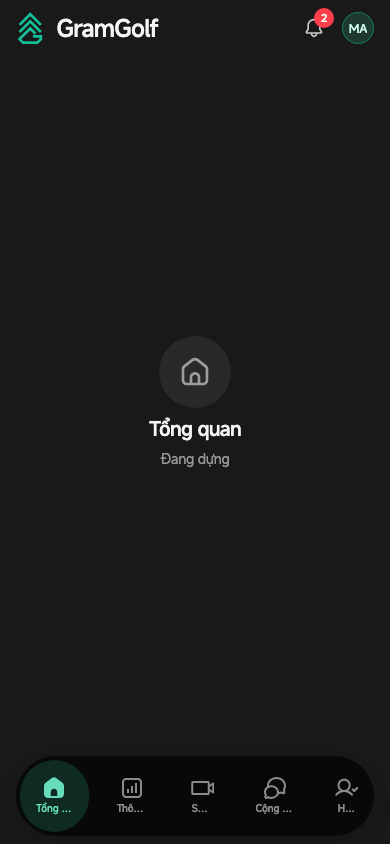
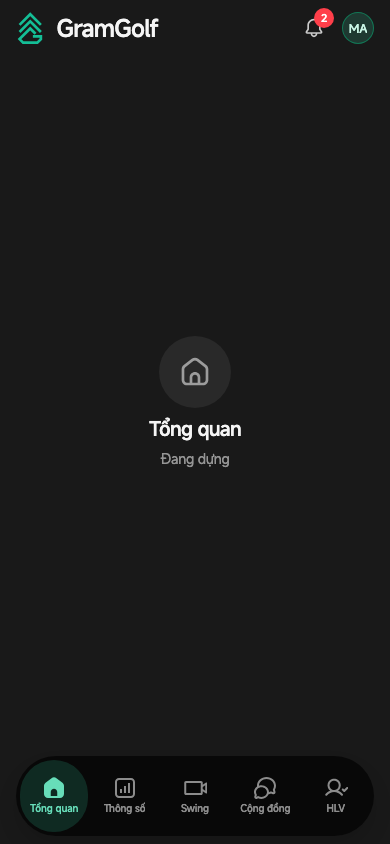
fix(ds): BottomNavigation 5 mục không cắt nhãn ở 390 (NỢ FIGMA F55)
Chọn hướng (a) của review Task 3: khi ≥5 mục, pill trải hết bề ngang,
mục flex 1 chia đều, gap + padding ngang trong thu về 3XSmall. ≤4 mục
giữ khoảng cách Figma. Ghi nợ F55, cheatsheet, chụp lại player-home.

diff --git a/packages/ds/src/ui/BottomNavigation/bottomNavigationStyles.ts b/packages/ds/src/ui/BottomNavigation/bottomNavigationStyles.ts
@@ -20,13 +20,18 @@ const THEME: Record<BottomNavTheme, { off: ItemPaint; on: ItemPaint }> = {
   Overlay: { off: { icon: 'Color/Content/Accent/Strongest', label: 'Color/Content/Accent/Strongest' }, on: { bg: 'Color/Background/Surface/Default', icon: 'Color/Content/Accent/Strongest', label: 'Color/Content/Accent/Strongest', shadow: true } },
 };
 
-export function bottomNavigationStyles(t: Theme, o: { type: BottomNavType }): { bar: ViewStyle; items: ViewStyle } {
+/**
+ * `dense` (≥5 mục) — NỢ FIGMA F55: Floating chỉ vừa 4 mục; 5 mục ở 390 cắt nhãn. Dense: pill trải hết bề ngang, mục chia đều,
+ * gap + padding ngang trong thu về 3XSmall.
+ */
+export function bottomNavigationStyles(t: Theme, o: { type: BottomNavType; dense?: boolean }): { bar: ViewStyle; items: ViewStyle } {
   return {
     bar: { paddingHorizontal: t.layout('Margin-Small'), alignItems: 'center' },
     items: {
       flexDirection: 'row',
       maxWidth: '100%',
-      gap: t.space('Spacing/Gap/Small'),
+      ...(o.dense ? { alignSelf: 'stretch' } : {}),
+      gap: t.space(o.dense ? 'Spacing/Gap/3XSmall' : 'Spacing/Gap/Small'),
       padding: t.space('Spacing/Padding/2XSmall'),
       borderRadius: t.radius('Corner-Radius/Rounded'),
       // Cả 2 type bind Surface/Glass (Floating-Glass: slot Nav-Item fill Surface/Glass 54 % + BACKGROUND_BLUR — đợt 1 đọc nhầm fill
@@ -39,18 +44,19 @@ export function bottomNavigationStyles(t: Theme, o: { type: BottomNavType }): { 
 
 export interface BottomNavItemStyles { item: ViewStyle; inner: ViewStyle; label: TextStyle; iconSize: number; iconColor: PaintKey; noti: ViewStyle }
 
-export function bottomNavItemStyles(t: Theme, o: { theme: BottomNavTheme; selected: boolean }): BottomNavItemStyles {
+export function bottomNavItemStyles(t: Theme, o: { theme: BottomNavTheme; selected: boolean; dense?: boolean }): BottomNavItemStyles {
   const p = o.selected ? THEME[o.theme].on : THEME[o.theme].off;
   const dot = t.size('Element-Size/Popular/2XSmall');
   return {
     item: {
       flexShrink: 1, minWidth: 0,
+      ...(o.dense ? { flex: 1 } : {}),
       padding: t.space('Spacing/Padding/2XSmall'),
       borderRadius: t.radius('Corner-Radius/Rounded'),
       ...(p.bg ? { backgroundColor: paint(t, p.bg) } : {}),
       ...(p.shadow ? t.shadow('Shadow/Bottom/Level-1') : {}),
     },
-    inner: { alignItems: 'center', minWidth: 0, gap: t.space('Spacing/Gap/3XSmall'), paddingHorizontal: t.space('Spacing/Padding/Small'), paddingVertical: t.space('Spacing/Padding/Small') },
+    inner: { alignItems: 'center', minWidth: 0, gap: t.space('Spacing/Gap/3XSmall'), paddingHorizontal: t.space(o.dense ? 'Spacing/Padding/3XSmall' : 'Spacing/Padding/Small'), paddingVertical: t.space('Spacing/Padding/Small') },
     label: { ...t.text('Label/Medium/DemiBold'), color: paint(t, p.label), maxWidth: '100%' },
     iconSize: t.size('Navigation-Mobile/Bottom/Icon-Size'),
     iconColor: p.icon,

diff --git a/packages/ds/src/ui/BottomNavigation/bottomNavigationStyles.test.ts b/packages/ds/src/ui/BottomNavigation/bottomNavigationStyles.test.ts
@@ -37,4 +37,16 @@ describe('bottomNavigationStyles', () => {
     expect(it.item.flexShrink).toBe(1); expect(it.item.minWidth).toBe(0);
     expect(it.inner.minWidth).toBe(0); expect(it.label.maxWidth).toBe('100%');
   });
+  it('dense (≥5 mục, NỢ FIGMA F55): pill trải hết bề ngang, mục chia đều flex 1, gap + padding ngang trong thu nhỏ để nhãn không bị cắt ở 390', () => {
+    const bar = bottomNavigationStyles(t, { type: 'Floating', dense: true });
+    expect(bar.items.alignSelf).toBe('stretch');
+    expect(bar.items.gap).toBe(t.space('Spacing/Gap/3XSmall'));
+    const it5 = bottomNavItemStyles(t, { theme: 'Accent', selected: false, dense: true });
+    expect(it5.item.flex).toBe(1);
+    expect(it5.inner.paddingHorizontal).toBe(t.space('Spacing/Padding/3XSmall'));
+    // mặc định (≤4 mục) giữ đúng Figma
+    expect(bottomNavigationStyles(t, { type: 'Floating' }).items.alignSelf).toBeUndefined();
+    expect(bottomNavItemStyles(t, { theme: 'Accent', selected: false }).item.flex).toBeUndefined();
+    expect(bottomNavItemStyles(t, { theme: 'Accent', selected: false }).inner.paddingHorizontal).toBe(t.space('Spacing/Padding/Small'));
+  });
 });

diff --git a/packages/ds/src/ui/BottomNavigation/BottomNavigation.tsx b/packages/ds/src/ui/BottomNavigation/BottomNavigation.tsx
@@ -27,13 +27,14 @@ export interface BottomNavigationProps {
 
 export function BottomNavigation({ items, selectedIndex, onChange, type = 'Floating', theme = 'Neutral' }: BottomNavigationProps) {
   const t = useTheme();
-  const s = bottomNavigationStyles(t, { type });
+  const dense = items.length >= 5;
+  const s = bottomNavigationStyles(t, { type, dense });
   return (
     <View style={s.bar} accessibilityRole="tablist">
       <View style={s.items}>
         {items.map((it, i) => {
           const selected = i === selectedIndex;
-          const st = bottomNavItemStyles(t, { theme, selected });
+          const st = bottomNavItemStyles(t, { theme, selected, dense });
           return (
             <Pressable key={i} accessibilityRole="tab" {...a11yState({ selected }, 'tab')} onPress={() => onChange?.(i)} style={st.item}>
               <View style={st.inner}>

diff --git a/docs/ds/figma-debt.md b/docs/ds/figma-debt.md
@@ -77,6 +77,7 @@ Nguồn: audit tương phản (spec §7d) + parity token (spec §7e). Mã F* dù
 | F52 | Onboarding 02-Intro ảnh minh hoạ | JPEG 896×1200 nền trắng nướng cứng → dark mode lộ ô trắng | thẻ `White-Solid` bo góc bọc ảnh | Xuất PNG/SVG nền trong suốt |
 | F54 | Token màu dưới WCAG AA 4.5:1 (đo axe trên Storybook 2026-09-26, 58 lượt; trùng danh sách KNOWN_DESIGN của `src/audit/contrast.test.ts`) | Placeholder `#a1a1a1`/trắng 2.58; Disabled `#949494`/`#ebebeb` 2.54; Neutral/Light `#9e9e9e`/Alt `#fafafa` 2.56; Positive Solid trắng/`#3fab53` 2.93; Positive Subtle 3.22; Danger Subtle 4.48; Badge Orange/Crimson/Pink Solid 2.7–3.6; dark: Negative `#d51420`/`#1a1a1a` 3.27, Disabled `#555`/`#2a2a2a` 1.92, Bottom-Nav Neutral-Solid nhãn off 1.91 | giữ token Figma, ghi nợ | Nâng độ đậm token (Placeholder/Disabled/Neutral-Light ≥ 4.5, Solid status ≥ 3 cho chữ lớn) |
 | F53 | OTP-Field Length=6 | ô `Input/Size/XLarge` 64 × 6 + gap 8 × 5 = 424 > khung 358 (390 − margin) → tràn phải; Large cũng 376 | ô `flexShrink` co đều, giữ vuông | Length=6 dùng ô nhỏ hơn hoặc gap nhỏ hơn |
+| F55 | Bottom-Navigation/Mobile/Floating 5 mục | pill ôm nội dung: gap `Spacing/Gap/Small` 12 × 4 + item padding `2XSmall` + inner padding ngang `Padding/Small` 12 × 2 → ở 390 còn ≈142 px cho 5 nhãn (cần ≈230) → nhãn bị cắt ("Thô…", "S…") | `dense` khi ≥5 mục: pill `alignSelf: stretch`, mục `flex: 1`, gap + inner padding ngang `3XSmall` (≤4 mục giữ Figma) | Thêm variant 5 mục (Items=5) với khoảng cách gọn hoặc rút padding item |
 
 ## E. Thiếu trong Figma (code chưa làm, chờ thiết kế)
 

diff --git a/docs/ds/API-CHEATSHEET.md b/docs/ds/API-CHEATSHEET.md
@@ -666,6 +666,7 @@ How `theme="Overlay"` is painted:
 - Accessibility roles: `tablist` on the container, and `tab` with `aria-selected` on each item.
 - The bar is not absolutely positioned and does not handle safe-area insets. It is a centred pill with `paddingHorizontal: Margin-Small`, so you position it at the bottom yourself.
 - Items are keyed by array index.
+- With 5 or more items the bar switches to a dense layout (NỢ FIGMA F55): the pill stretches to full width, items share it equally (`flex: 1`), and the gap and inner horizontal padding drop to `3XSmall`, so 5 Vietnamese labels fit at 390px. With 4 or fewer items the Figma spacing is unchanged.
 
 ```tsx
 const [i, setI] = useState(0);
